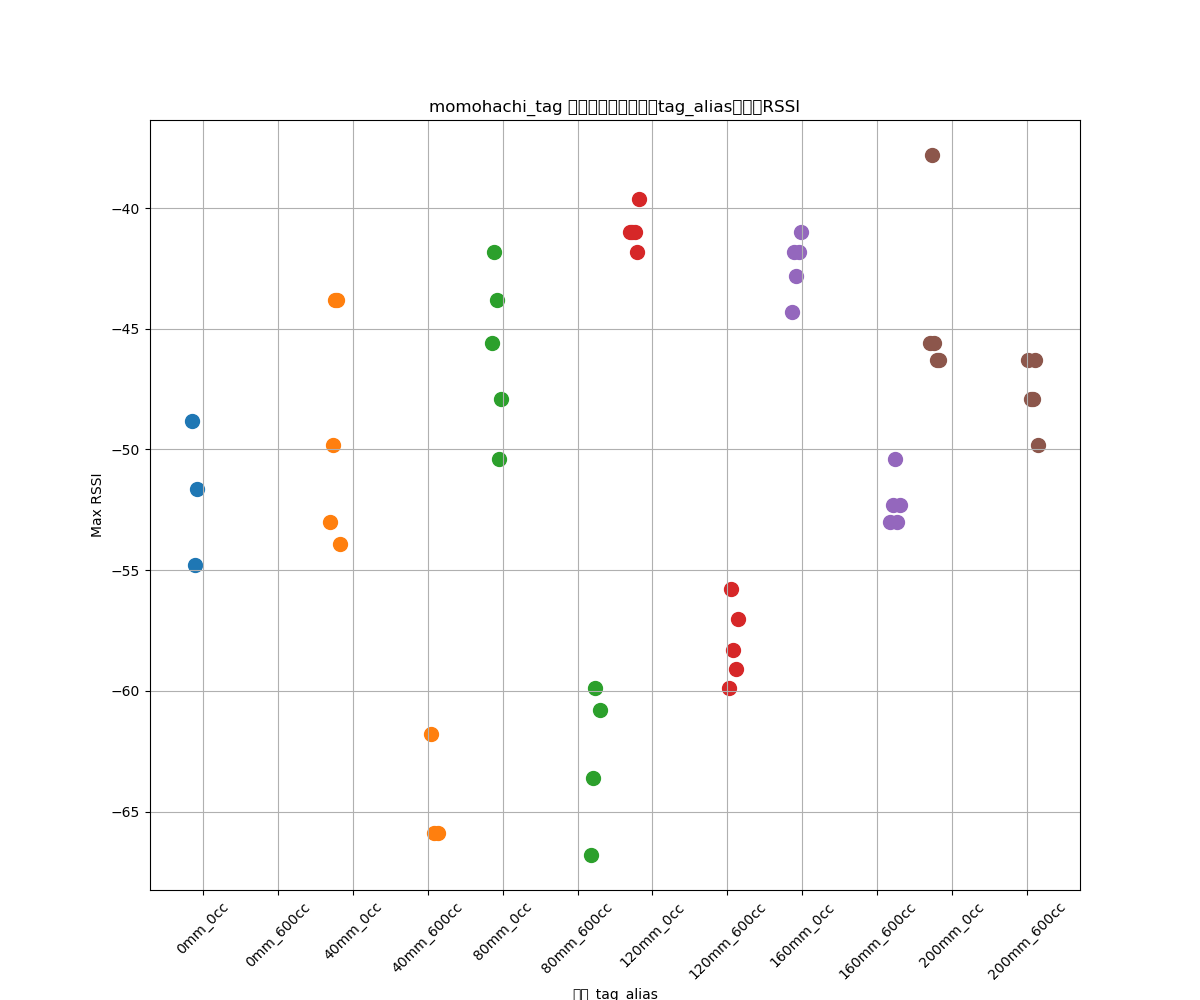
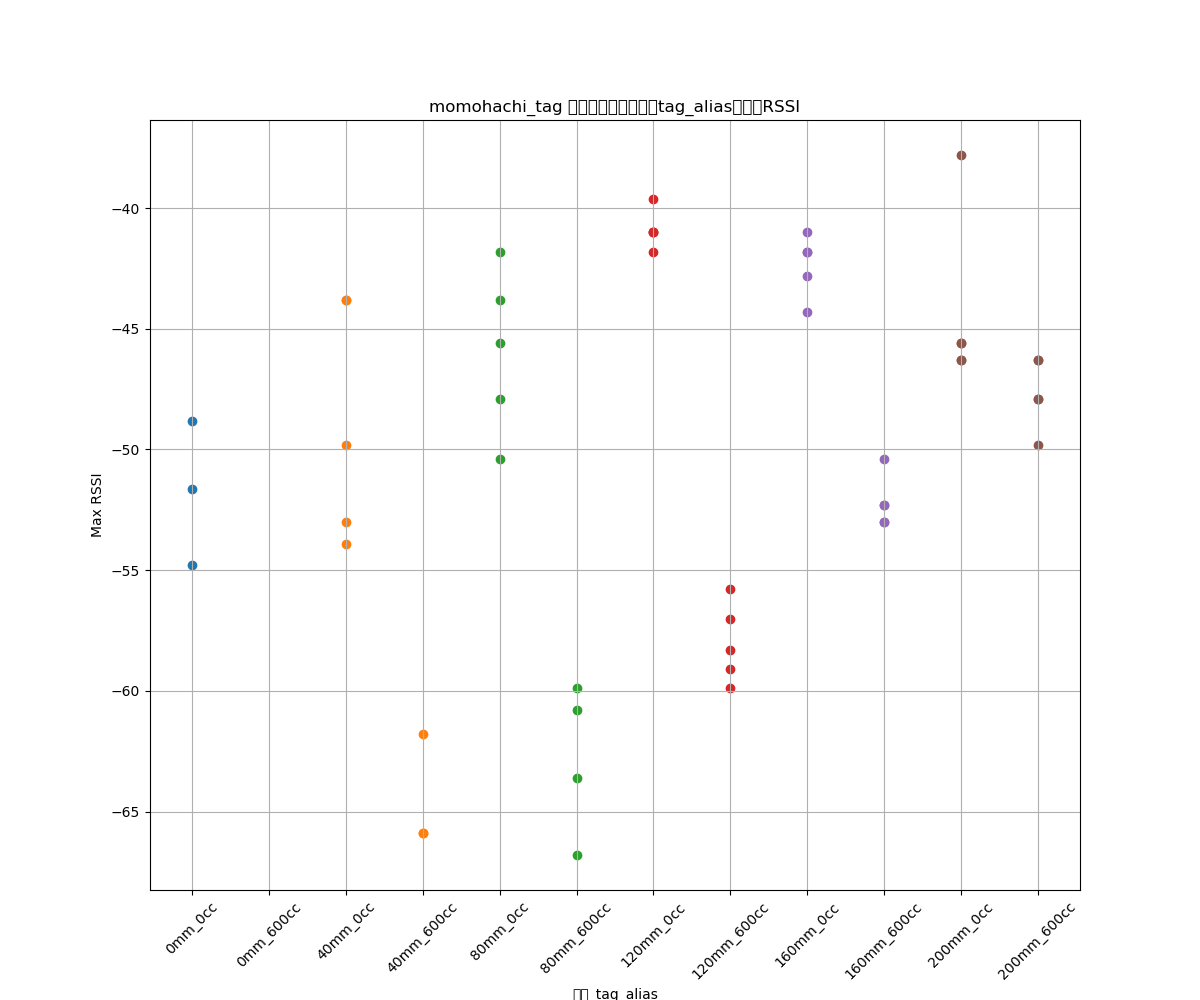
プロットを横並びにしたい。途中

diff --git a/plot_max_rssi_per_tag.py b/plot_max_rssi_per_tag.py
@@ -1,8 +1,8 @@
 import os
-import csv
 import re
 import matplotlib.pyplot as plt
-from collections import defaultdict
+import pandas as pd
+
 
 # dataディレクトリから被験者名一覧を取得
 data_dir = 'data'
@@ -33,6 +33,7 @@ for cond in os.listdir(target_dir):
 
 
 
+
 valid_tags = ['0mm', '40mm', '80mm', '120mm', '160mm', '200mm']
 valid_ccs = ['0', '600']
 def is_mm_tag(tag):
@@ -54,55 +55,37 @@ def get_cc_from_cond(cond_name):
     print(f'  [警告] 試験条件ccが取得できません: {cond_name}')
     return None
 
-# x軸ラベル生成とデータ格納
-x_labels = []
-tag_cc_label_list = [] # [(cc, tag_alias, label)]
-cc_tag_set = set()
-csv_data = defaultdict(dict) # {csv名: {label: rssi}}
 
-
+# pandasで全データをまとめて処理
+records = []
 for csv_path in all_csv_files:
-    # パス分割内容をデバッグ表示
     parts = csv_path.split(os.sep)
-    print(f'csv_path: {csv_path}')
-    print(f'parts: {parts}')
-    # 試験条件cc取得（data/被験者名/試験条件/日付/ファイル名）
-    # 例: parts[-5]=data, parts[-4]=被験者名, parts[-3]=試験条件, parts[-2]=日付, parts[-1]=ファイル名
     cond_name = parts[-3] if len(parts) >= 4 else ''
     cc = get_cc_from_cond(cond_name)
     if cc is None:
         print(f'  [警告] ccが取得できずスキップ: {csv_path}')
         continue
-    date_name = parts[-2] if len(parts) >= 3 else ''
     csv_name = os.path.basename(csv_path)
-    tag_max = {}
-    with open(csv_path, encoding='utf-8') as f:
-        reader = csv.DictReader(f)
-        for row in reader:
-            tag = row.get('tag_alias')
-            tag = str(tag).replace(' ', '').replace('　', '')
-            if not is_mm_tag(tag):
-                continue
-            try:
-                rssi = float(row.get('rssi', '-9999'))
-            except:
-                continue
-            if tag not in tag_max or rssi > tag_max[tag]:
-                tag_max[tag] = rssi
-    # x軸ラベル生成
+    try:
+        df = pd.read_csv(csv_path, encoding='utf-8')
+    except Exception as e:
+        print(f'  [警告] CSV読込失敗: {csv_path}, {e}')
+        continue
     for tag in valid_tags:
-        label = f'{tag}_{cc}cc'
-        cc_tag_set.add(label)
-        if tag in tag_max:
-            csv_data[csv_name][label] = tag_max[tag]
+        tag_df = df[df['tag_alias'].astype(str).str.replace(' ', '').str.replace('　', '') == tag]
+        if not tag_df.empty:
+            max_rssi = tag_df['rssi'].max()
+            records.append({
+                'csv': csv_name,
+                'cc': cc,
+                'tag': tag,
+                'label': f'{tag}_{cc}cc',
+                'max_rssi': max_rssi
+            })
+
+result_df = pd.DataFrame(records)
 
 # x軸ラベルを指定順で並べる
-def label_sort_key(label):
-    m = re.match(r'(\d+)cc_(\d+)mm', label)
-    if m:
-        return (int(m.group(1)), int(m.group(2)))
-    return (float('inf'), float('inf'))
-
 def custom_x_labels():
     labels = []
     for mm in valid_tags:
@@ -111,44 +94,32 @@ def custom_x_labels():
     return labels
 x_labels = custom_x_labels()
 print('x_labels:', x_labels)
-print('csv_data keys:', list(csv_data.keys()))
-for k, v in csv_data.items():
-    print(f'csv: {k}, data: {v}')
+print('csvファイル一覧:', result_df["csv"].unique())
 
 
 
 # tag_aliasごとに色を固定
-import itertools
+
 color_list = plt.cm.get_cmap('tab10').colors
 tag_color_map = {tag: color_list[i%len(color_list)] for i, tag in enumerate(valid_tags)}
 marker_list = ['o','s','^','D','v','*','x','+','1','2','3','4','8','p','h']
 
 plt.figure(figsize=(12,10))
 
-
-
-# プロットが重ならないようにオフセットを与えて横に並べる
-num_csv = len(csv_data)
-offsets = []
-if num_csv > 1:
-    step = 0.6 / (num_csv-1) if num_csv > 1 else 0
-    offsets = [(-0.3 + i*step) for i in range(num_csv)]
-else:
-    offsets = [0]
-
-csv_names = list(csv_data.keys())
-for tag in valid_tags:
-    for cc in valid_ccs:
-        label = f'{tag}_{cc}cc'
-        for i, csv_name in enumerate(csv_names):
-            y = csv_data[csv_name].get(label, None)
-            if y is not None:
-                x_pos = x_labels.index(label) + offsets[i]
-                plt.scatter(x_pos, y, color=tag_color_map[tag], marker='o', s=100, label=f'{csv_name}' if tag==valid_tags[0] else None)
+# 各csvごとに同じx順で横並びでプロット
+csv_names = result_df["csv"].unique()
+for i, csv_name in enumerate(csv_names):
+    df_csv = result_df[result_df["csv"] == csv_name]
+    for j, label in enumerate(x_labels):
+        row = df_csv[df_csv["label"] == label]
+        tag = label.split('_')[0]  # 例: '40mm_0cc' → '40mm'
+        if not row.empty:
+            y = row["max_rssi"].values[0]
+            plt.scatter(j, y, color=tag_color_map[tag], marker='o')
 
 # 「通信不可」表示
 for idx, label in enumerate(x_labels):
-    has_data = any(csv_data[csv_name].get(label, None) is not None for csv_name in csv_data.keys())
+    has_data = any((result_df[result_df["label"] == label]["max_rssi"].notnull()))
     if not has_data:
         plt.text(idx, 0, '通信不可', color='red', ha='center', va='bottom', fontsize=10, rotation=90)
 
@@ -156,7 +127,7 @@ plt.xticks(range(len(x_labels)), x_labels, rotation=45)
 plt.xlabel('条件_tag_alias')
 plt.ylabel('Max RSSI')
 plt.title(f'{subject} 各測定ごとの条件・tag_alias別最大RSSI')
-# plt.legend()  # 凡例削除
+ # plt.legend()  # 凡例削除
 plt.grid(True)
 plt.tight_layout()
 output_png = f'max_rssi_plot_{subject}.png'
